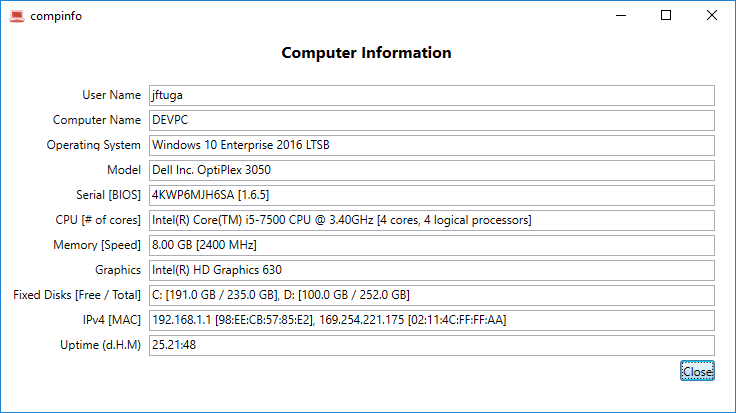
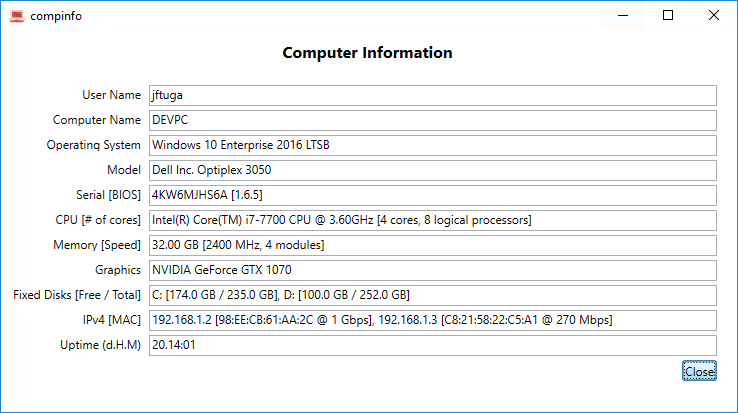
sync with dev02 branch

diff --git a/compinfo/MainWindow.xaml b/compinfo/MainWindow.xaml
@@ -6,14 +6,15 @@
         xmlns:local="clr-namespace:compinfo"
         xmlns:properties="clr-namespace:compinfo.Properties"
         mc:Ignorable="d"
-        Title="compinfo" Height="420" Width="750">
+        Title="compinfo" Height="420" Width="Auto">
 
     <Window.Resources>
         <local:NetworkCollectionValueConverter x:Key="NetworkCollectionValueConverter" />
         <local:FixedDiskValueConverter x:Key="FixedDiskValueConverter" />
     </Window.Resources>
 
-    <Grid Name="CompInfoGrid" FocusManager.FocusedElement="{Binding ElementName=Button_Close}">
+    <ScrollViewer HorizontalScrollBarVisibility="Auto" VerticalScrollBarVisibility="Auto">
+        <Grid Name="CompInfoGrid" FocusManager.FocusedElement="{Binding ElementName=Button_Close}">
         <Grid.Resources>
             <Style TargetType="Border" >
                 <Setter Property="Padding" Value="5,5,5,5" />
@@ -85,8 +86,9 @@
         <TextBox Grid.Column="1" Grid.Row="10" x:Name="TextBox_IPV4" Text="{Binding Path=IPv4, Mode=OneWay, Converter={StaticResource NetworkCollectionValueConverter}, IsAsync=true}" />
 
         <Label Label.Target="{Binding ElementName=TextBox_Uptime}"  Grid.Column="0" Grid.Row="11" Content="{x:Static properties:Resources.Uptime}" />
-        <TextBox Grid.Column="1" Grid.Row="11" x:Name="TextBox_Uptime" Text="{Binding Path=Uptime, Mode=OneWay}" />
+        <TextBox Grid.Column="1" Grid.Row="11" x:Name="TextBox_Uptime" Text="{Binding Path=Uptime, StringFormat=\{0\:dd\\.hh\\:mm\}, Mode=OneWay, IsAsync=False}" />
 
         <Button  Grid.Column="1" Grid.Row="12" x:Name="Button_Close" Content="{x:Static properties:Resources.Close}"  HorizontalAlignment="Right" Click="Click_Close" Margin="20,4,20,0" />
     </Grid>
+    </ScrollViewer>
 </Window>

diff --git a/compinfo/Computer.cs b/compinfo/Computer.cs
@@ -162,6 +162,7 @@ namespace compinfo
                 string Speed = "";
                 long totalSize = 0;
                 long totalSizeGB = 0;
+                long modules = 0;
 
                 using (ManagementObjectSearcher searcher = new ManagementObjectSearcher("select Capacity, Speed from Win32_PhysicalMemory"))
                 {
@@ -169,6 +170,7 @@ namespace compinfo
                     {
                         Capacity = getPropertyValueFromManObject(obj, "Capacity");
                         totalSize += Convert.ToInt64(Capacity);
+                        modules += 1;
 
                         try
                         {
@@ -185,7 +187,7 @@ namespace compinfo
                 }
 
                 totalSizeGB = (totalSize) / 1073741824; // 1024**3 (1 GB)
-                return String.Format("{0:0.00} GB [{1}]", totalSizeGB, Speed);
+                return String.Format("{0:0.00} GB [{1}, {2} modules]", totalSizeGB, Speed, modules);
             }
         }
 
@@ -256,14 +258,15 @@ namespace compinfo
                         }
                         string ipAddress = addr.Address.ToString();
                         string macAddress = netInterface.GetPhysicalAddress().ToString();
-                        collection.Add(new NetworkAddressViewModel(ipAddress, macAddress));
+                        long speed = netInterface.Speed;
+                        collection.Add(new NetworkAddressViewModel(ipAddress, macAddress, speed));
                     }
                 }
                 return collection;
             }
         }
 
-        public string Uptime
+        public TimeSpan Uptime
         {
             get
             {

diff --git a/compinfo/NetworkCollectionValueConverter.cs b/compinfo/NetworkCollectionValueConverter.cs
@@ -18,6 +18,7 @@ namespace compinfo
             }
 
             MacAddressValueConverter macAddressValueConverter = new MacAddressValueConverter();
+            NetworkInterfaceSpeedValueConverter networkInterfaceSpeedValueConverter = new NetworkInterfaceSpeedValueConverter();
 
             StringBuilder result = new StringBuilder();
             for (int x = 0; x < collection.Count; x++)
@@ -25,9 +26,10 @@ namespace compinfo
                 if (x > 0) { result.Append(", "); }
                 result.AppendFormat(
                     culture,
-                    "{0} [{1}]",
+                    "{0} [{1} @ {2}]",
                     collection[x].IpAddress,
-                    macAddressValueConverter.Convert(collection[x].MacAddress, typeof(string), null, culture));
+                    macAddressValueConverter.Convert(collection[x].MacAddress, typeof(string), null, culture),
+                    networkInterfaceSpeedValueConverter.Convert(collection[x].Speed, typeof(string), null, culture));
             }
 
             return result.ToString();

diff --git a/compinfo/NetworkAddressViewModel.cs b/compinfo/NetworkAddressViewModel.cs
@@ -6,11 +6,13 @@ namespace compinfo
     {
         private readonly string _ipAddress;
         private readonly string _macAddress;
+        private readonly long _speed;
 
-        public NetworkAddressViewModel(string ipAddress, string macAddress)
+        public NetworkAddressViewModel(string ipAddress, string macAddress, long speed)
         {
             this._ipAddress = ipAddress;
             this._macAddress = macAddress;
+            this._speed = speed;
         }
 
         public string IpAddress
@@ -21,6 +23,11 @@ namespace compinfo
         public string MacAddress
         {
             get { return this._macAddress; }
+        }
+
+        public long Speed
+        {
+            get { return this._speed;  }
         }
 
         public event PropertyChangedEventHandler PropertyChanged;

diff --git a/compinfo/NativeMethods.cs b/compinfo/NativeMethods.cs
@@ -11,9 +11,8 @@ namespace compinfo
         [System.Runtime.InteropServices.DllImport("kernel32")]
         extern static uint GetTickCount64();
 
-        public static string Uptime() {
-            TimeSpan ts = TimeSpan.FromMilliseconds(GetTickCount64());
-            return String.Format("{0}.{1:D2}:{2:D2}", ts.Days, ts.Hours, ts.Minutes);
+        public static TimeSpan Uptime() {
+            return TimeSpan.FromMilliseconds(GetTickCount64());
             
         }
     }

diff --git a/compinfo/Properties/AssemblyInfo.cs b/compinfo/Properties/AssemblyInfo.cs
@@ -51,5 +51,5 @@ using System.Windows;
 // You can specify all the values or you can default the Build and Revision Numbers
 // by using the '*' as shown below:
 // [assembly: AssemblyVersion("1.0.*")]
-[assembly: AssemblyVersion("3.5.1.0")]
-[assembly: AssemblyFileVersion("3.5.1.0")]
+[assembly: AssemblyVersion("3.8.0.0")]
+[assembly: AssemblyFileVersion("3.8.0.0")]
